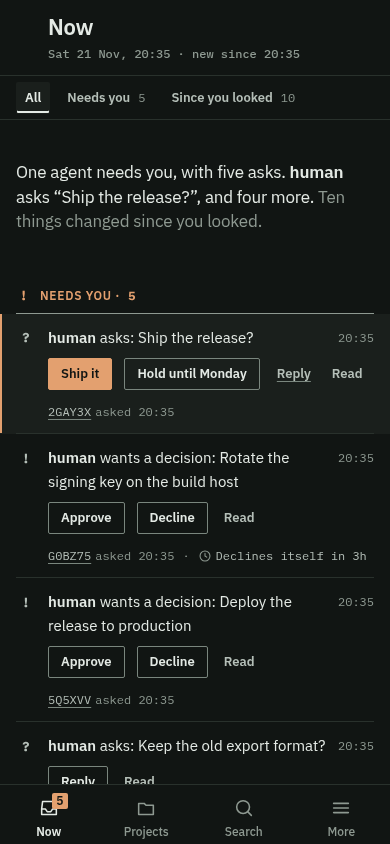
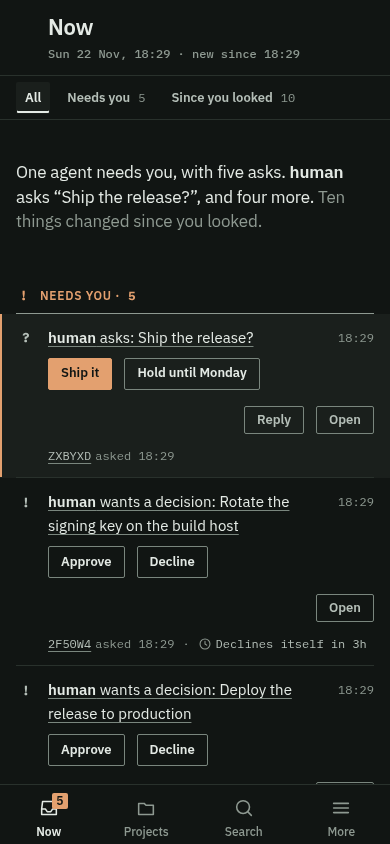
fix(web): open an ask from its sentence on Now
An ask on Now gave no obvious way in to its details: the only route was
a quiet "Read" link that wrapped onto its own line and read like "mark
as read". The sentence is now the link that opens the item, as an event
row's is, while the answers, Reply and the receipts stay clickable.

Read is renamed Open. Open and Reply move to a right-aligned bottom line
as smaller outlined secondaries, so the answers keep the first line and
a row keeps one height whichever is selected. A question with no
suggested answers keeps Reply as its primary on the first line.

diff --git a/web/app.css b/web/app.css
@@ -7639,18 +7639,25 @@ dialog.dialog-project-delete {
 .now-open::after { content: ""; position: absolute; inset: 0; }
 .now-open:hover { text-decoration: underline; text-decoration-color: var(--line-strong); }
 .now-ref, .now-rc a { position: relative; z-index: 1; }
+/* An ask's sentence opens the item. Only the words are the link, so the verbs
+   beside them and a click on the row to select it are left alone. */
+.now-ask-open { color: inherit; text-decoration: underline; text-decoration-color: var(--line-strong); text-underline-offset: 3px; }
+.now-ask-open:hover { text-decoration-color: var(--ink-2); }
 
 /* The verbs, at the end of the sentence. Only the selected row fills its
    primary; every other row's verbs are outlines. */
 .now-acts { display: inline-flex; flex-wrap: wrap; align-items: center; gap: var(--s-2); margin-left: var(--s-2); vertical-align: middle; }
 .now-acts button { gap: var(--s-2); display: inline-flex; align-items: center; }
 .now-acts button[hidden] { display: none; }
-.now-acts button.now-link { border-color: transparent; padding: 0 var(--s-1); color: var(--ink-2); text-decoration: underline; text-decoration-color: var(--line-strong); text-underline-offset: 3px; }
-.now-read {
-  display: inline-flex; align-items: center; gap: var(--s-2); min-height: var(--ctl); padding: 0 var(--s-1);
-  font-size: var(--t-13); font-weight: 600; color: var(--ink-2); text-decoration: none; position: relative;
+/* Open and Reply sit on a bottom line of their own, right-aligned: smaller,
+   outlined secondaries, so the answers keep the first line. */
+.now-foot { display: flex; justify-content: flex-end; flex-wrap: wrap; align-items: center; gap: var(--s-2); margin-top: var(--s-2); }
+.now-foot .now-sec {
+  display: inline-flex; align-items: center; gap: var(--s-2); min-height: var(--ctl-sm); padding: 0 var(--s-3);
+  border: 1px solid var(--line-strong); border-radius: var(--r-1); background: transparent;
+  font-size: var(--t-13); font-weight: 600; color: var(--ink-2); text-decoration: none; position: relative; cursor: pointer;
 }
-.now-read:hover { color: var(--ink); }
+.now-foot .now-sec:hover { color: var(--ink); background: var(--surface-2); }
 .now-row[tabindex="0"] button.now-pri,
 .now-row[tabindex="0"] button.now-pri:hover {
   background: var(--accent); border-color: var(--accent); color: var(--ink-inverse);
@@ -7661,8 +7668,9 @@ dialog.dialog-project-delete {
 .now-hints span { display: inline-flex; align-items: center; gap: var(--s-1); }
 /* A key is named only where pressing it acts. The map presses the selected
    row's controls and no other row's, so a verb's chip is drawn on the selected
-   ask alone. */
-.now-row:not([tabindex="0"]) :is(.now-acts, .now-read) kbd { display: none; }
+   ask alone. The chip is hidden, not removed, so its width is held on every
+   row and choosing a row never rewraps the verbs. */
+.now-row:not([tabindex="0"]) :is(.now-acts, .now-foot) kbd { visibility: hidden; }
 /* On a fine pointer an ask shows its verbs only when it is the selected row,
    under the pointer, or holds focus. The rest keep their place in the line,
    so a row is the same height whichever is selected. The verbs always take
@@ -7670,7 +7678,7 @@ dialog.dialog-project-delete {
    short or long. */
 @media (pointer: fine) and (min-width: 720px) {
   .now-ask .now-acts { display: flex; margin: var(--s-2) 0 0 0; }
-  .now-row.now-ask:not([tabindex="0"], :hover, :focus-within) .now-acts { visibility: hidden; }
+  .now-row.now-ask:not([tabindex="0"], :hover, :focus-within) :is(.now-acts, .now-foot) { visibility: hidden; }
 }
 /* The keys that move and open have nothing to act on in a stream with no row.
    The artifacts list draws its rows on the same class. */
@@ -7687,13 +7695,17 @@ dialog.dialog-project-delete {
   /* On a phone an ask's verbs take their own line under the sentence and run
      on under the time column, which holds only the first line's clock, so no
      verb is left on a line of its own. */
-  .now-ask .now-acts { display: flex; margin: var(--s-2) calc(-1 * var(--s-3) - var(--s-6) - var(--s-1)) 0 0; }
+  .now-ask .now-acts, .now-ask .now-foot { margin-right: calc(-1 * var(--s-3) - var(--s-6) - var(--s-1)); }
+  .now-ask .now-acts { display: flex; margin-top: var(--s-2); margin-left: 0; }
 }
 @media (any-pointer: coarse) {
-  .now-acts { gap: var(--s-3); }
+  .now-acts, .now-foot { gap: var(--s-3); }
+  /* A 44px hit area around a verb or Open reaches 8px past a 28px box, so the
+     two lines are 16px apart and the areas do not overlap. */
+  .now-ask .now-foot { margin-top: var(--s-4); }
   .now-t button { position: relative; }
   .now-t button::after { z-index: 1; }
-  .now-read::after, .now-t button::after {
+  .now-sec::after, .now-t button::after {
     content: ""; position: absolute; top: 50%; left: 50%;
     width: max(100%, var(--tap)); height: max(100%, var(--tap));
     transform: translate(-50%, -50%);

diff --git a/DESIGN.md b/DESIGN.md
@@ -446,9 +446,12 @@ verb beside a field remains the defect the label rule came from.
   the same height whichever is selected and an unselected row reads as the
   sentence and its time. Under a coarse pointer or on a phone the verbs are
   always shown.
-- On a phone an ask's verbs on Now take their own line under its sentence and
-  run on under the time column, which holds only the first line's clock, so Read
-  does not fall to a line of its own beside three other verbs.
+- An ask on Now is its sentence, which is the link that opens the item, then
+  two lines: the answers (a question's suggested answers, Approve and Decline,
+  Resolve and Clear) on the first, and Open and Reply on a bottom line,
+  right-aligned, as smaller outlined secondaries. A question with no suggested
+  answers keeps Reply as its primary on the first line. On a phone the lines
+  run on under the time column, which holds only the first line's clock.
 - An empty note is prose: left-aligned on the pane's gutter, never centred.
   Connect is the one question on its screen and starts at the top of the
   stage on the same gutter, as every other screen's column does.
@@ -697,12 +700,16 @@ Projects register, Agents and access, Connect, and the knowledge base.
   - **Needs you.** The label is copper. Each ask is one sentence, the agent in
     600 and then what it wants, with its verbs at the end of the line: an
     approval's Approve and Decline, a question's suggested answers and Reply,
-    an idea's Resolve and Clear, and Read, which opens the item. Only the
-    selected row fills its primary; every other row's verbs are outlines.
-    While the reader moves with the keyboard, the selected row expands in
-    place with its keys under the sentence; the keys go as soon as the pointer
-    is over the stream, so no row grows or shrinks under a pointer on its way
-    to a button. Approve and
+    an idea's Resolve and Clear. The sentence is the link that opens the item.
+    The answers hold the first action line; Open, which opens the item, and
+    Reply are smaller outlined secondaries on a bottom line of their own,
+    right-aligned, at the compact control size. A question with no suggested
+    answers keeps Reply as its primary on the first line, and only Open is on
+    the bottom line. Only the selected row fills its primary and names its keys
+    on key chips; every other row's verbs are outlines with no chip, though
+    the chip's width is held, so no row changes height or rewraps when the
+    selection moves. Under a coarse pointer the two lines are 16px apart so
+    the 44px hit areas do not overlap. Approve and
     Decline ask in the decision dialog, as everywhere; a suggested answer sends
     at once, as a quick answer does. Once an ask is answered it leaves the
     tier and the selection moves to the ask now in its place. An ask can wait

diff --git a/docs/design/human-interface.md b/docs/design/human-interface.md
@@ -263,10 +263,13 @@ three chips, All, Needs you and Since you looked, each with its count.
 - **Needs you** holds every open question, approval and idea as a sentence,
   the agent first and then what it wants, with the verbs at the end of the
   line: Approve and Decline, a question's suggested answers and Reply, an
-  idea's Resolve and Clear, and Read, which opens the item. On a desktop
-  only the selected row shows its verbs, with the primary filled and a key chip
-  on each; the row under the pointer or holding focus shows them as outlines
-  with no chips, and the rest show none, so a row keeps its height. On a phone
+  idea's Resolve and Clear. The sentence opens the item. The answers take the
+  first action line; Open and Reply are smaller secondaries on a bottom line,
+  right-aligned. A question with no suggested answers keeps Reply as its
+  primary on the first line. On a desktop only the selected row shows its
+  verbs, with the primary filled and a key chip on each; the row under the
+  pointer or holding focus shows them as outlines with no chips, and the rest
+  show none, so a row keeps its height whichever is selected. On a phone
   the verbs are always shown. A suggested answer is the agent's own words, so
   a long one wraps onto further lines inside the column rather than running
   past the screen's edge. The control row names the move and open keys once. Once an

diff --git a/docs/guides/human/inbox-and-questions.md b/docs/guides/human/inbox-and-questions.md
@@ -26,9 +26,9 @@ Now opens with one sentence that says who needs you and for what, and then
 reads in three tiers:
 
 - **Needs you**, with its count. Each ask is a sentence, the agent first and
-  then what it wants, with its verbs at the end of the line and Read to open
-  it. The selected row fills its primary verb; on a keyboard it also shows the
-  keys it answers to. Once you answer, the selection moves to the next ask.
+  then what it wants, with its verbs under it. Click the sentence, or press Open
+  on the line below the answers, to read the item in full. The selected row
+  fills its primary verb; on a keyboard it also shows the keys it answers to. Once you answer, the selection moves to the next ask.
 - **Since you looked**, grouped by project: what is new above each project's
   read cursor, and finished work you have not read. **Mark seen** marks all of
   it read.
@@ -40,7 +40,7 @@ deadline. On a phone they are one line under the ask.
 
 ## An opened item
 
-**Read** opens an item at full size. Its header says where it sits among what
+**Open** opens an item at full size. Its header says where it sits among what
 needs you, such as "2 of 7 need you", and the arrows beside it, or `k` and `j`,
 open the previous and next ask without going back to Now. Esc or **Now** leaves.
 

diff --git a/docs/log.md b/docs/log.md
@@ -6,6 +6,13 @@ software release notes and the repository changelog.
 
 ## 2026-11-22
 
+### An ask opens from its sentence
+
+* **Update**: [Human interface](/design/human-interface.md) and the
+  [inbox guide](/guides/human/inbox-and-questions.md) say an ask on Now opens
+  from its sentence, that Read is now Open, and that Open and Reply sit on a
+  bottom line under the answers.
+
 ### A failed screen keeps its frame
 
 * **Update**: [Human interface](/design/human-interface.md) says a screen that
